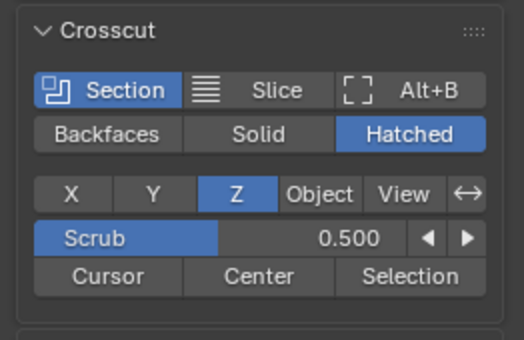
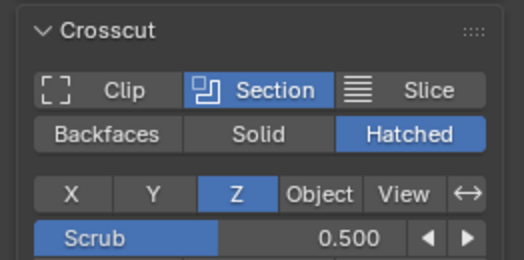
Crosscut 0.9.3: Clip button first, plane row back, button follows the key
- Plane row shows again while off: View starts a section from there.
- Alt+B button renamed Clip and moved to the front of the row.
- The button no longer goes stale after Alt+B on the keyboard.
- Docs: in user testing, not close to 1.0, by the maintainer's call.

diff --git a/tests/blender/run_viewport_tests.py b/tests/blender/run_viewport_tests.py
@@ -729,6 +729,74 @@ def xray_caps(view):
 
 
 @test
+def clip_button_follows_key(view):
+    # the sidebar's Clip button lights and unlights with Alt+B on the keyboard, with no hovering
+    T = "clip_button_follows_key"
+    if not bpy.app.use_event_simulate:
+        print("    skipped: run Blender with --enable-event-simulate")
+        return
+    scene = new_scene("cc-clip-key")
+    box("part-001", (30, 30, 30))
+    s = scene.crosscut
+    view.look((0, 0, 0), 160, (60, 0, 30))
+    settings(s, cap_style='SOLID')
+    view.space.show_region_ui = True
+    ui = next(r for r in view.area.regions if r.type == 'UI')
+    panels = [c for c in cc("ui").classes if getattr(c, "bl_region_type", "") == 'UI']
+    for c in reversed(panels):
+        bpy.utils.unregister_class(c)
+    for c in panels:
+        c.bl_category = "Tool"
+        bpy.utils.register_class(c)
+    yield 0.3
+    win = bpy.context.window
+    r = view.region
+    cx, cy = r.x + r.width // 3, r.y + r.height // 2
+    win.event_simulate('MOUSEMOVE', 'NOTHING', x=cx, y=cy)
+    yield 0.5
+
+    def blue(name):
+        shot = Shot(view, name)
+        x0 = ui.x - view.area.x
+        p = shot.px[:, x0:x0 + ui.width]
+        return int(np.count_nonzero((p[:, :, 2] > p[:, :, 0] + 60) & (p[:, :, 2] > 120)))
+
+    off = blue("clip_key_before")
+    # draw a box with the key
+    win.event_simulate('B', 'PRESS', alt=True, x=cx, y=cy)
+    win.event_simulate('B', 'RELEASE', alt=True, x=cx, y=cy)
+    yield 0.2
+    a, b = view.px((-12, -12, 15)), view.px((12, 12, 15))
+    x0, x1 = sorted((a[0], b[0]))
+    y0, y1 = sorted((a[1], b[1]))
+    win.event_simulate('MOUSEMOVE', 'NOTHING', x=r.x + x0, y=r.y + y0)
+    yield 0.05
+    win.event_simulate('LEFTMOUSE', 'PRESS', x=r.x + x0, y=r.y + y0)
+    yield 0.05
+    win.event_simulate('MOUSEMOVE', 'NOTHING', x=r.x + x1, y=r.y + y1)
+    yield 0.05
+    win.event_simulate('LEFTMOUSE', 'RELEASE', x=r.x + x1, y=r.y + y1)
+    yield 0.6
+    check(T, "key drew a box", view.rv3d.use_clip_planes)
+    on = blue("clip_key_box")
+    check(T, "button lit by the key", on > off + 100, f"{on} vs {off}")
+    win.event_simulate('MOUSEMOVE', 'NOTHING', x=cx, y=cy)
+    win.event_simulate('B', 'PRESS', alt=True, x=cx, y=cy)
+    win.event_simulate('B', 'RELEASE', alt=True, x=cx, y=cy)
+    yield 0.6
+    check(T, "key removed the box", not view.rv3d.use_clip_planes)
+    now = blue("clip_key_after")
+    check(T, "button unlit by the key", now <= off + 20, f"{now} vs {off}")
+    view.space.show_region_ui = False
+    for c in reversed(panels):
+        bpy.utils.unregister_class(c)
+    for c in panels:
+        c.bl_category = "Crosscut"
+        bpy.utils.register_class(c)
+    check(T, "no draw errors", not errors(), str(errors()))
+
+
+@test
 def alt_b_button(view):
     T = "alt_b_button"
     scene = new_scene("cc-altb-button")

diff --git a/crosscut/ui.py b/crosscut/ui.py
@@ -13,19 +13,17 @@ def _draw_main(layout, context, compact=False):
     col = layout.column()
     # Section / Slice: one or neither (neither = only Alt+B clipping gets caps)
     row = col.row(align=True)
+    rv3d = getattr(context.space_data, "region_3d", None)
+    row.operator("crosscut.alt_b", text="Clip", icon='SHADING_BBOX',
+                 depress=s.mode == 'OFF' and rv3d is not None and rv3d.use_clip_planes)
     row.operator("crosscut.set_mode", text="Section", icon='MOD_BOOLEAN',
                  depress=s.mode == 'SECTION').mode = 'SECTION'
     row.operator("crosscut.set_mode", text="Slice", icon='ALIGN_JUSTIFY',
                  depress=s.mode == 'SLICE').mode = 'SLICE'
-    rv3d = getattr(context.space_data, "region_3d", None)
-    row.operator("crosscut.alt_b", text="Alt+B", icon='SHADING_BBOX',
-                 depress=s.mode == 'OFF' and rv3d is not None and rv3d.use_clip_planes)
     # applies to Section, Slice and Alt+B alike; Backfaces = no caps anywhere
     row = col.row(align=True)
     row.prop(s, "cap_style", expand=True)
 
-    if s.mode == 'OFF':
-        return  # hide, don't grey out, what doesn't apply (Flip below is the exception)
     col.separator()
     row = col.row(align=True)
     for key in ('X', 'Y', 'Z', 'OBJECT'):
@@ -42,6 +40,8 @@ def _draw_main(layout, context, compact=False):
         r = col.row(align=True)
         r.prop(s, "object_axis", expand=True)
 
+    if s.mode == 'OFF':
+        return  # hide, don't grey out, what doesn't apply (Flip above is the exception)
     box = col.column(align=True)
     r = box.row(align=True)
     if s.scrub_distance:

diff --git a/crosscut/draw.py b/crosscut/draw.py
@@ -34,6 +34,7 @@ _batches = {}          # (target key, cap index, kind) -> (signature, batch)
 _clip_state = {}       # rv3d pointer -> {"ours": flat planes or None, "saved": (on, planes)}
 _errors = set()
 _last_info = {}        # per-region info for the readout
+_clip_lit = {}         # rv3d pointer -> whether the sidebar's Clip button should be lit
 
 
 # ------------------------------------------------------------------ shaders
@@ -922,6 +923,11 @@ def draw_view():
     try:
         planes = engine.compute_planes(s)
         ours = sync_clip(rv3d, planes[0] if planes else None, context.area)
+        # Alt+B on the keyboard only redraws the viewport: refresh the sidebar's Clip button too
+        lit = s.mode == 'OFF' and bool(rv3d.use_clip_planes)
+        if _clip_lit.setdefault(rv3d.as_pointer(), lit) != lit:
+            _clip_lit[rv3d.as_pointer()] = lit
+            context.area.tag_redraw()
         style = s.cap_style
         if ours:
             caps = planes[1]
@@ -1091,6 +1097,7 @@ def unregister():
     _batches.clear()
     _shaders.clear()
     _last_info.clear()
+    _clip_lit.clear()
     _errors.clear()
     global _FULLSCREEN
     _FULLSCREEN = None

diff --git a/crosscut/ops.py b/crosscut/ops.py
@@ -81,10 +81,10 @@ def _view_window_region(context):
 
 
 class CROSSCUT_OT_alt_b(bpy.types.Operator):
-    """Blender's clipping box (Alt+B). When off, turns Section and Slice off and lets you draw a box
-    in the viewport; when on, removes the box"""
+    """Blender's clipping region (Alt+B). When off, turns Section and Slice off and lets you draw a
+    box in the viewport; when on, removes the box"""
     bl_idname = "crosscut.alt_b"
-    bl_label = "Alt+B Clipping"
+    bl_label = "Clip"
 
     @classmethod
     def poll(cls, context):

diff --git a/docs/DECISIONS.md b/docs/DECISIONS.md
@@ -10,6 +10,7 @@ this list is an assumption, tracked in the table at the end.
 
 | ID | Requirement | Status in 0.1.0 |
 | --- | --- | --- |
+| R-016 | After 0.9.2 (2026-11-02): put the plane row back while off (View is used to start a plane); Alt+B button first in the row and named Clip; fix the button staying lit after the Alt+B key; 1.0 is not close: keep user testing, and push back when bugs and features keep coming; download buttons on the status page. Asked whether vanilla Alt+B can be scrubbed | 0.9.3, see below |
 | R-015 | Notes from using 0.9.1 on real work (2026-11-02): hide the axis row while off; align to an object's local XYZ; an Alt+B button; selected outline must win over a coincident black contour; readout hidden by the last-operation panel; Scrub by Distance and Step into Scrub Range, renamed Scrub Settings; X-ray should affect caps; Cap Targets right under Caps; Vary per Object must not change when parts are shown or hidden; warn when cutting through an open mesh even if the hole isn't on the plane, more severely when it is, and maybe lower the cap's opacity; "clashes on interference, both when enabled or disabled" | 0.9.2, see below |
 | R-014 | After testing 0.9.0 (2026-10-29): plane tint default 0.03, slider 0 to 0.1 but typing up to 1; choosing Object with a plane object that's no longer visible must clear it (and pick the only visible object); show selection outlines in a zero-thickness slice; stop Blender's selection outline clashing with Crosscut's outline in a slab; move Caps and everything below into a separate, collapsed settings panel; line "Range" up with the Scrub Range row; list open follow-ups at the end of every reply | 0.9.1, see below |
 | R-013 | After testing 0.4.0 (2026-10-29): no outline in Wireframe; show the Wire/Bounds note only when such objects exist, and warn in the readout; stripe width and plane colour/opacity settings; Object with no object must not cut, and the only visible object should be picked automatically; Cap Targets and Scrub Range under Settings; parts selectable in a zero-thickness slice; a slab's second plane in another colour or without stacked tint; hide rather than grey out (except Flip); turning off must not bring back the Alt+B box; prep everything for 1.0, release after review | 0.9.0 (1.0 candidate), see below |
@@ -27,6 +28,20 @@ this list is an assumption, tracked in the table at the end.
 | R-001 | Main use: while modelling parts. Secondary: finding interferences when packing buckets | Drives defaults |
 
 ## Decisions
+
+### Changes after the maintainer's review of 0.9.2 (0.9.3, 2026-11-02)
+
+- **Plane row** is back while off (reverses R-015's first item). X, Y, Z and Object still do nothing
+  visible until Section or Slice is on, which was the original complaint; left as it is until the
+  maintainer decides.
+- **Clip button**: first in the row, named after Blender's "Clipping Region". The readout still says
+  "Alt+B clipping" (*assumed*). The button went stale because the key only redraws the viewport;
+  the draw callback now tags the area when the lit state changes.
+- **1.0 is not close.** The maintainer called the 1.0 talk premature: keep testing on real work
+  first. Version numbers stay 0.9.x, though they suggest otherwise (*assumed*; renumbering would
+  confuse more).
+- **Scrubbing a plain Alt+B box**: checked, not built. Its four side planes can be moved from
+  Python and the caps follow; whether Blender's box tint follows wasn't checked ([issue](https://github.com/calvin-young/blender-crosscut/issues/9)).
 
 ### Changes after the maintainer's notes on 0.9.1 (0.9.2, 2026-11-02)
 
@@ -456,10 +471,11 @@ What `tests/blender/run_viewport_tests.py` and the screenshots showed in 0.1.0, 
 | Q-044 | Settings layout: Readout, Scrub by Distance, Step at the top of Settings; Plane as its own sub-panel | assumption | 0.9.1 | open |
 | Q-045 | A hidden plane object keeps cutting while Object stays chosen; it's only replaced when Object is chosen again | assumption | 0.9.1 | open |
 | Q-046 | Plane frame hidden behind parts and the near cap (it used to draw on top of everything) | assumption | 0.9.1 | open |
-| Q-047 | "Clashes on interference" (note cut short) means the banding between overlapping caps (D-023) | assumption | 0.9.2 | open |
+| Q-047 | "Clashes on interference" (note cut short) means the banding between overlapping caps (D-023) | assumption | 0.9.2 | confirmed: fixed, per the maintainer |
 | Q-048 | The Alt+B button turns Section/Slice off and waits for a box, unlike the key | assumption | 0.9.2 | open |
 | Q-049 | Local axes live under Object; Object prefers the selected part (D-025) | assumption | 0.9.2 | open |
 | Q-050 | Open-part caps at 50 %, with a setting; the plane-crossing warning is red (D-026) | assumption | 0.9.2 | open |
 | Q-051 | In X-ray, contours stay opaque while caps go translucent | assumption | 0.9.2 | open |
 | Q-052 | Readout at the bottom centre | assumption | 0.9.2 | open |
-| Q-053 | Whether the black-over-orange case seen was the flush-face one (D-024) | unasked question | 0.9.2 | open |
+| Q-053 | Whether the black-over-orange case seen was the flush-face one (D-024) | unasked question | 0.9.2 | orange has won so far; the maintainer reports if not |
+| Q-054 | The readout keeps "Alt+B clipping" while the button says Clip | assumption | 0.9.3 | open |

diff --git a/AGENTS.md b/AGENTS.md
@@ -8,7 +8,7 @@ The human-facing overview is in [README.md](README.md).
 - **What it is:** a Blender add-on that adds filled (solid or hatched) caps to viewport
   clipping, plus section and slice views with a scrub slider. It drives the same
   `RegionView3D.clip_planes` that Alt+B uses and draws the caps with the `gpu` module.
-- **Status:** 1.0 release candidate (0.9.2, 2026-11-02), awaiting the maintainer's review; tested in Blender (4.2.23 and 5.2.3,
+- **Status:** in user testing (0.9.3, 2026-11-02), not close to 1.0 by the maintainer's call; tested in Blender (4.2.23 and 5.2.3,
   OpenGL; 5.2 on Vulkan too) with the in-viewport suite below. Waiting for the maintainer's
   test on real work. See "State and next steps".
 - **Runs in:** Blender 4.2+ as an extension (`crosscut/blender_manifest.toml`); Python 3.11
@@ -85,9 +85,8 @@ this file, the reasons behind decisions and the approaches that were dropped go 
   on 4.2.23 and 5.2.3 (5.2 also on Vulkan).
 - 0.4.0 (second maintainer test): overlap stripes, interference settings, leftover Alt+B shading
   fixed. 107 viewport checks pass on 4.2.23 and 5.2.3 (and Vulkan).
-- 0.9.0 is the 1.0 candidate: README, docs/USER_GUIDE.md and CHANGELOG.md are written for the
-  release. Releasing: set the manifest to 1.0.0, rebuild the zip, tag v1.0.0, create a GitHub
-  Release with the zip attached (only after the maintainer's go).
+- 0.9.0: README, docs/USER_GUIDE.md and CHANGELOG.md written. For 1.0 (only after the maintainer's
+  go): set the manifest to 1.0.0, rebuild the zip, tag v1.0.0, create a full GitHub Release.
 - 0.9.1 (maintainer's review of 0.9.0): selection-coloured contours, caps write depth, depth-
   tested frame, sRGB line colours, separate Settings panel. 127 viewport checks pass on 4.2.23
   and 5.2.3 (and Vulkan).
@@ -96,8 +95,14 @@ this file, the reasons behind decisions and the approaches that were dropped go 
   at the bottom centre. 161 viewport checks pass on 4.2.23 and 5.2.3 (and Vulkan). The Alt+B button
   is tested from the sidebar, not from the header popover.
   The suite sometimes hangs on 4.2 in Blender's window swap, on 0.9.1 too ([issue](https://github.com/calvin-young/blender-crosscut/issues/8)): rerun it.
-- Next: the maintainer keeps using 0.9.2 before the 1.0 go. Open questions Q-030 to Q-053 in
-  DECISIONS.md. Then the Issues.
+- 0.9.3: plane row back while off, Clip button first, button follows the Alt+B key.
+- **Builds:** every build gets a tag, a GitHub pre-release with the zip attached, and a new download
+  link on the Workbench row (see ai-context, topics/workstation.md).
+- **1.0 is not close (maintainer, 2026-11-02).** It's about 90% there, but the maintainer wants to keep testing on
+  real work for a while. Say so plainly when bugs and features are still coming; don't call it nearly
+  done. Calling it close was premature.
+- Next: the maintainer keeps testing. Open questions Q-030 to Q-054 in DECISIONS.md. Then the Issues.
+  Possible next feature, undecided: scrubbing a plain Alt+B box ([issue](https://github.com/calvin-young/blender-crosscut/issues/9)).
 - Not tested yet: macOS/Windows, HiDPI scaling above 1, Metal, very large multi-object scenes.
 
 ## Before you change things

diff --git a/docs/PROMPT_STATS.md b/docs/PROMPT_STATS.md
@@ -23,7 +23,7 @@ steering lines matters more than the count of prompts.
 
 | Date | Tool and model | Prompts | Steering lines | Notes |
 |---|---|---|---|---|
-| 2026-11-02 | Claude Code (workstation), Opus 5.5 | 1 | 4 | 0.9.2 from the maintainer's notes after several days of real use |
+| 2026-11-02 | Claude Code (workstation), Opus 5.5 | 3 | 8 | 0.9.2 and 0.9.3 from the maintainer's notes after several days of real use |
 | 2026-10-29 | Claude Code (workstation), Opus 5.5 | 5 | 17 | First in-Blender test pass: viewport test suite, 0.2.0 fixes, zip; then 0.3.0, 0.4.0, the 0.9.0 release candidate and 0.9.1 from the maintainer's tests |
 | 2026-10-26 | Claude (cloud session), Opus 5.5 | 1 | 3 | Repo created; first user test; handoff to Claude Code |
 | 2026-10-22 | Claude (cloud session), Opus 5.5 | 1 | 6 | Initial spec with 3 mock-ups; 0.1.0 built without Blender access |
@@ -33,6 +33,10 @@ steering lines matters more than the count of prompts.
 One line for each thing the human contributed that the AI would not have done on its own,
 newest first, tagged with its kind (decide, correct, domain, tested, scope).
 
+- 2026-11-02 [scope]: 1.0 talk was premature: keep user testing for a while, and the AI should push back when bugs and features keep coming.
+- 2026-11-02 [tested]: confirmed the z-fighting fixed; found the Alt+B button staying lit after the key.
+- 2026-11-02 [correct]: put the plane row back while off, since View is used to start a plane.
+- 2026-11-02 [decide]: Alt+B button first in the row and renamed Clip; download buttons on the status page, using GitHub links.
 - 2026-11-02 [tested]: several days of real use found the interference clash (with a screenshot) and the selected outline losing to a black contour.
 - 2026-11-02 [decide]: hide the axis row while off, an Alt+B button, Scrub by Distance and Step into a renamed Scrub Settings, Cap Targets under Caps, readout clear of the last-operation panel.
 - 2026-11-02 [decide]: align to an object's local axes; X-ray should affect caps; Vary per Object must hold when parts are shown or hidden.

diff --git a/docs/USER_GUIDE.md b/docs/USER_GUIDE.md
@@ -24,13 +24,14 @@ Units below assume 1 Blender unit = 1 mm, but Crosscut works in any unit.
 - **Section** keeps one side of the plane: a half section.
 - **Slice** keeps only what is near the plane. With **Thickness** 0 you see just the
   cross-section itself; with a thickness you see a slab, centred on the plane.
-- **Alt+B** is Blender's own clipping box, with caps (see below). The button is lit while the
-  view has a box. Click it to turn Section or Slice off and draw a box in the viewport; click
-  it when lit to remove the box.
+- **Clip** is Blender's own clipping region (Alt+B), with caps (see below). The button is lit
+  while the view has a box. Click it to turn Section or Slice off and draw a box in the viewport;
+  click it when lit to remove the box.
 
 Clicking a lit Section or Slice turns Crosscut off. Turning it off removes all clipping from the
-view, including an Alt+B box that was there before. The Plane and Scrub rows only show while
-Section or Slice is on.
+view, including an Alt+B box that was there before. The Scrub rows only show while Section or
+Slice is on. With both off, **View** starts a section; **X**, **Y**, **Z** and **Object** just
+choose the plane for next time.
 
 ### Cap style
 

diff --git a/README.md b/README.md
@@ -60,7 +60,7 @@ walk-through is in the [user guide](docs/USER_GUIDE.md).
 
 | Where | What |
 |---|---|
-| Sidebar (N) > Crosscut | Section / Slice / Alt+B, cap style, plane, scrub; everything else in Settings below (closed) |
+| Sidebar (N) > Crosscut | Clip (Alt+B) / Section / Slice, cap style, plane, scrub; everything else in Settings below (closed) |
 | **Shift+Alt+B** (3D View) | Pie: Section X / Y / Z, On/Off, Backfaces/Caps, Section/Slice, Flip, Section from View |
 | Header button (right) | Toggle on/off, popover with the main controls |
 | **Shift+Alt+Wheel** | Step the plane (Ctrl for x10) while Crosscut is on |
@@ -96,7 +96,7 @@ whole section.
 
 ## Status
 
-**1.0 release candidate (0.9.1).** 0.1.0 was written without access to Blender; since 0.2.0
+**In testing (0.9.3).** Not 1.0 yet: it's still getting bug fixes and new features from real use. 0.1.0 was written without access to Blender; since 0.2.0
 every build is run and tested in Blender with an automated in-viewport test suite
 ([`tests/blender/`](tests/blender/run_viewport_tests.py)), and 0.3.0 to 0.9.0 followed the
 maintainer's tests on real parts. Tested on Blender 4.2.23 LTS and 5.2.3 LTS (Linux, OpenGL;

diff --git a/CHANGELOG.md b/CHANGELOG.md
@@ -1,5 +1,11 @@
 # Changelog
 
+## 0.9.3 (2026-11-02)
+
+- The plane row is back while Crosscut is off: View starts a section from there.
+- The Alt+B button is now **Clip**, first in the row.
+- Fixed: the Clip button stayed lit (or unlit) after Alt+B on the keyboard, until you hovered over it.
+
 ## 0.9.2 (2026-11-02)
 
 - Fixed: overlapping caps z-fought in bands, with interference on or off (came in with 0.9.1),
